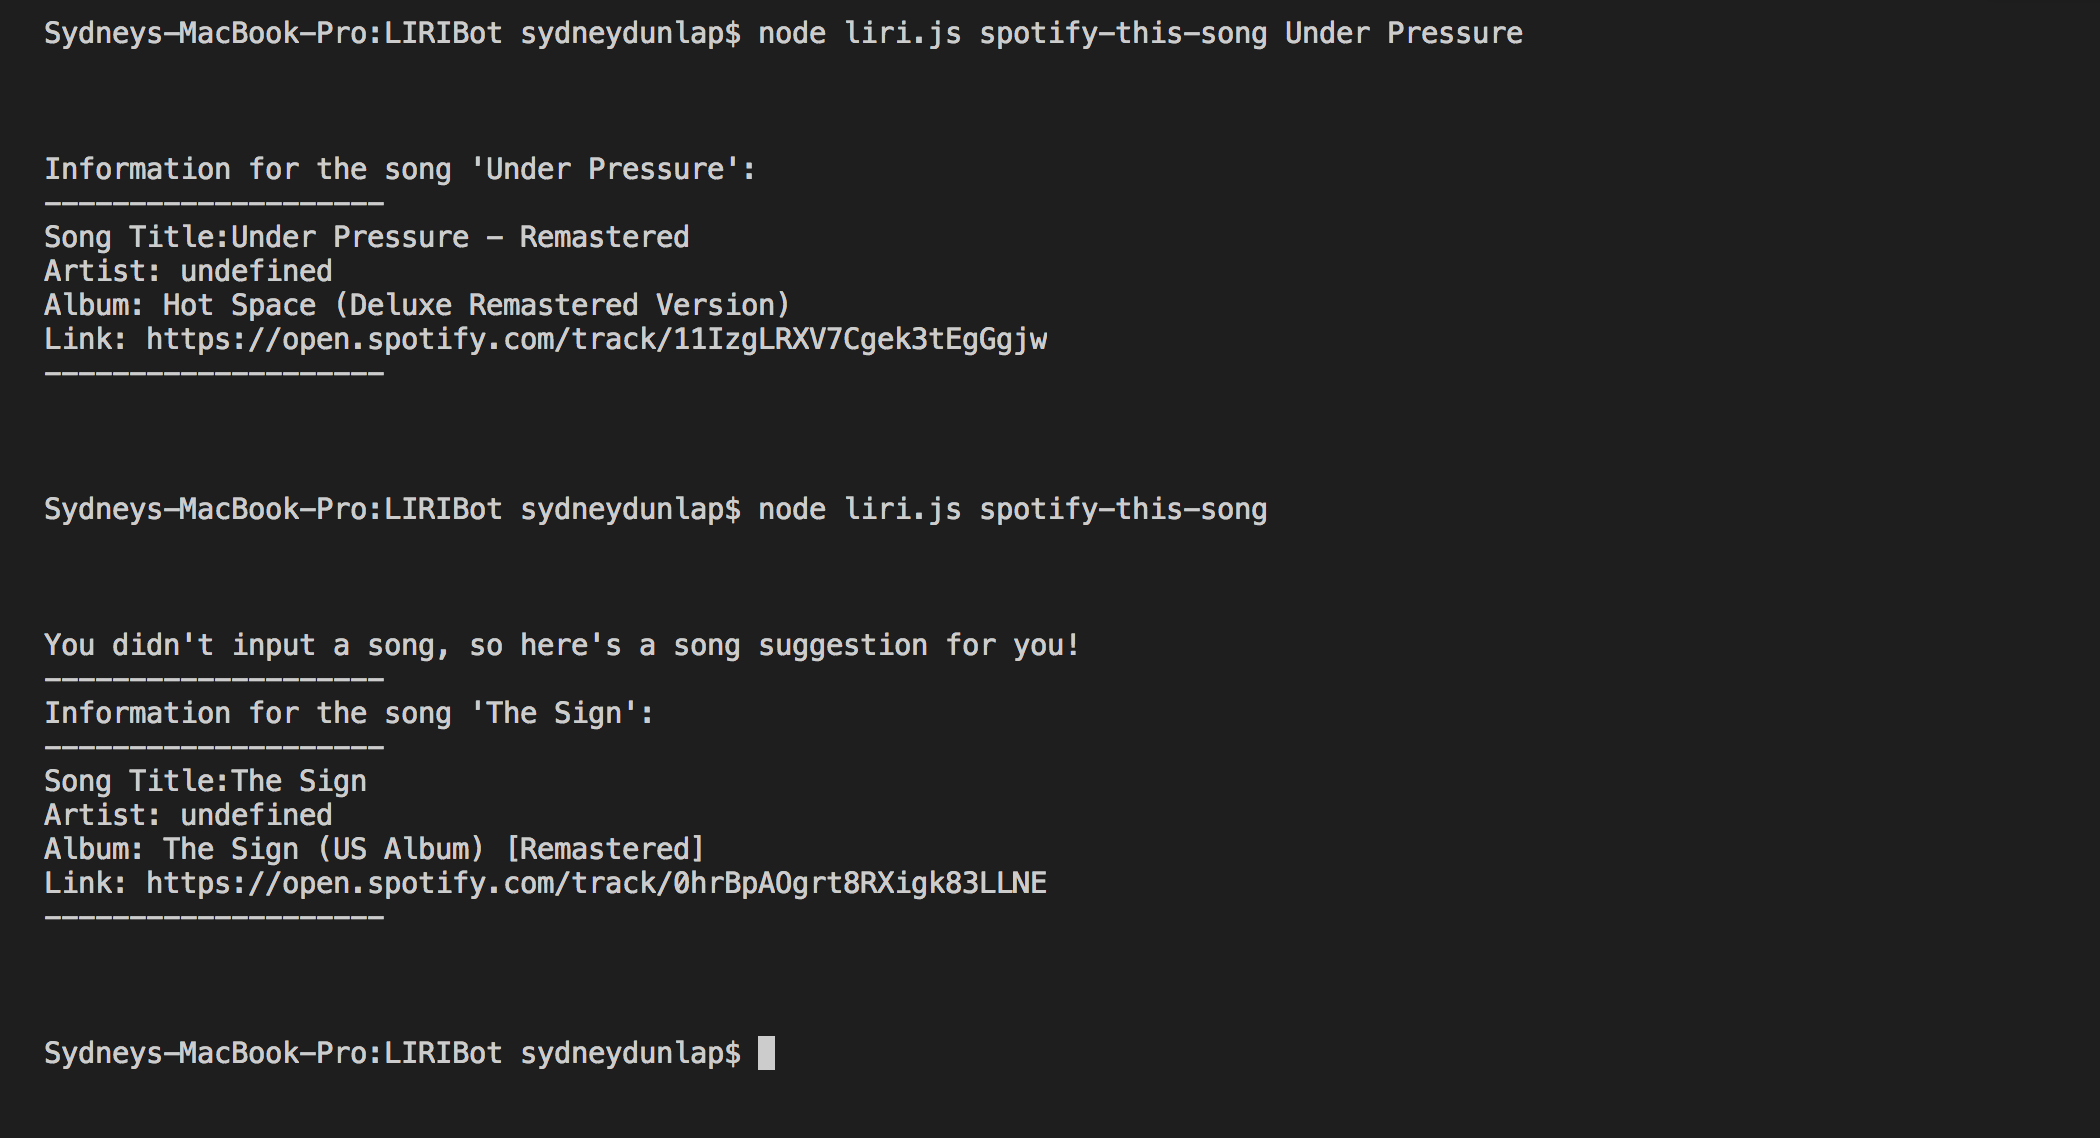
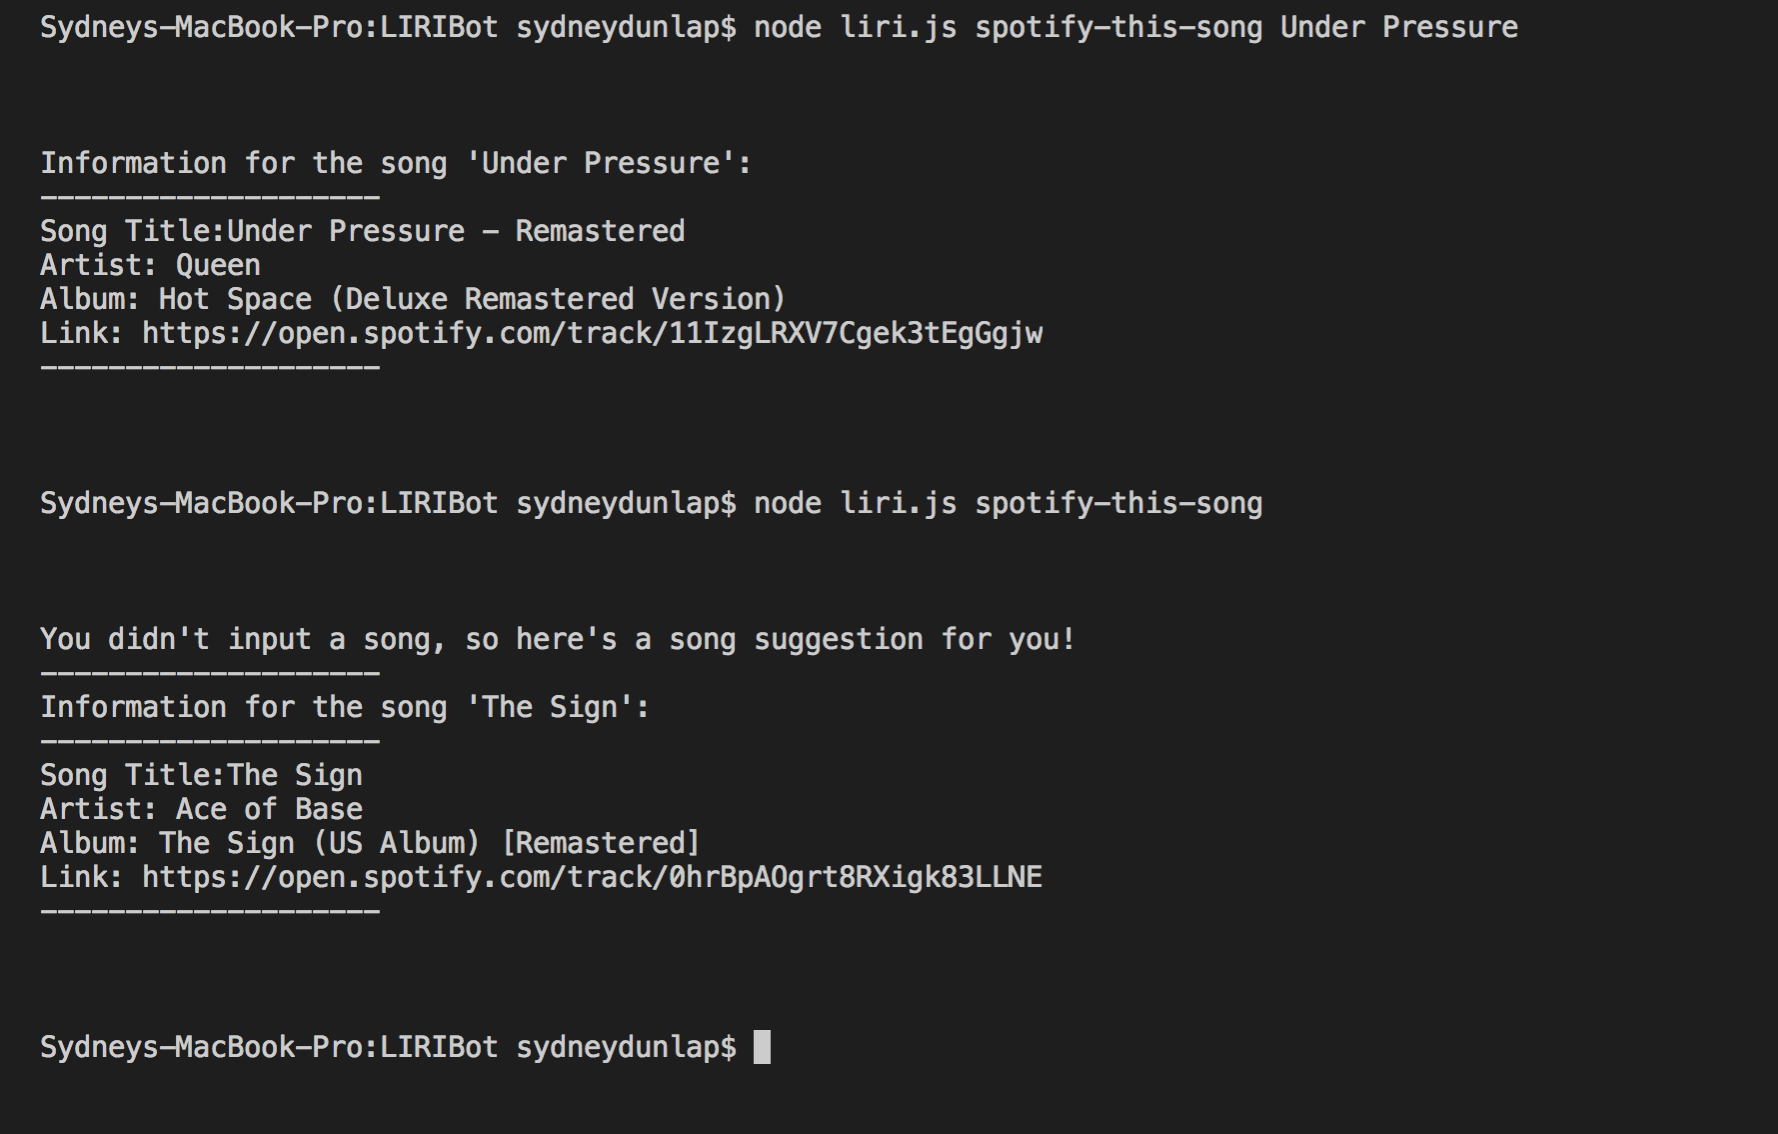
added catch functions for errors and fixed artist name error

diff --git a/liri.js b/liri.js
@@ -55,8 +55,9 @@ function concertThis() {
                     console.log("Location: " + response.data[2].venue.city + ", " + response.data[2].venue.region + ", " + response.data[2].venue.country);
                     console.log("--------------------");
                     console.log("\r\n\r\n");
-                }
-            );
+                }).catch(function (error) {
+                    console.log("An error has occurred");
+                })
     } else {
         console.log("You forgot to input an artist. Try again.");
     }
@@ -75,12 +76,14 @@ function spotifyThisSong() {
                 console.log("Information for the song '" + track + "':");
                 console.log("--------------------");
                 console.log("Song Title:" + response.tracks.items[0].name);
-                console.log("Artist: " + response.tracks.items[0].artists.name);
+                console.log("Artist: " + response.tracks.items[0].artists[0].name);
                 console.log("Album: " + response.tracks.items[0].album.name);
                 console.log("Link: " + response.tracks.items[0].external_urls.spotify);
                 console.log("--------------------");
                 console.log("\r\n\r\n");
-            });
+            }).catch(function (error) {
+                console.log("An error has occurred");
+            })
     } else {
         track = "The Sign";
         spotify.search({
@@ -95,12 +98,14 @@ function spotifyThisSong() {
                 console.log("Information for the song '" + track + "':");
                 console.log("--------------------");
                 console.log("Song Title:" + response.tracks.items[9].name);
-                console.log("Artist: " + response.tracks.items[9].artists.name);
+                console.log("Artist: " + response.tracks.items[9].artists[0].name);
                 console.log("Album: " + response.tracks.items[9].album.name);
                 console.log("Link: " + response.tracks.items[9].external_urls.spotify);
                 console.log("--------------------");
                 console.log("\r\n\r\n");
-            });
+            }).catch(function (error) {
+                console.log("An error has occurred");
+            })
     }
 };
 
@@ -126,8 +131,9 @@ function movieThis() {
                     console.log("Actors: " + response.data.Actors);
                     console.log("--------------------");
                     console.log("\r\n\r\n");
-                }
-            );
+                }).catch(function (error) {
+                    console.log("An error has occured");
+                })  
     } else {
         movieName = "Mr.+Nobody";
         var queryURL = "http://www.omdbapi.com/?t=" + movieName + "&y=&plot=short&apikey=trilogy";
@@ -151,8 +157,9 @@ function movieThis() {
                     console.log("Actors: " + response.data.Actors);
                     console.log("--------------------");
                     console.log("\r\n\r\n");
-                }
-            );
+                }).catch(function (error) {
+                    console.log("An error has occurred");
+                })
     }
 };
 
